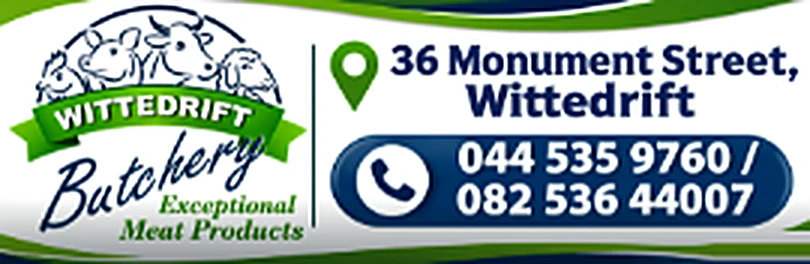
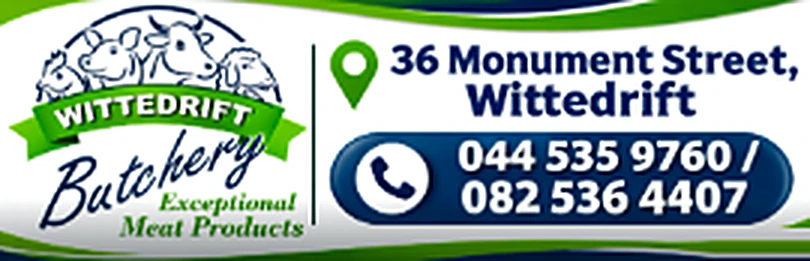
Dr G Coci adverts, corrected Wittedrift number, and a page-width fix
- Dr G Coci, Specialist Physician: his poster joins the front-page
  carousel, and his banner shows for Plettenberg Bay in both the Business
  and Medical directories (banners now say which directories they belong
  in). He has no website, so the buttons are Call 044 533 4471, Email
  drcociad@gmail.com and Directions via the map link he sent.
- Wittedrift Butchery sent a corrected banner: the cell number is
  082 536 4407. The new banner replaces the old one, and the number is now
  a Call button next to the landline.
- The front-page carousel let phones pan the whole home page sideways:
  mobile Chrome sized the page to the slides waiting off-screen (656px on
  a 375px phone). Clipping the carousel card keeps the page 375px wide.

Release 1.0.20 (versionCode 29).

diff --git a/sea-express/lib/garden-route/sponsored.ts b/sea-express/lib/garden-route/sponsored.ts
@@ -16,7 +16,8 @@ export type AdAction =
   | { kind: 'call'; phone: string; label?: string }
   | { kind: 'facebook'; url: string; label?: string }
   | { kind: 'email'; address: string; label?: string }
-  | { kind: 'directions'; query: string; label?: string };
+  /** A map search for `query`, or `url` when the advertiser shared their own map link. */
+  | { kind: 'directions'; query: string; url?: string; label?: string };
 
 export interface FrontPageAd {
   id: string;
@@ -29,10 +30,14 @@ export interface FrontPageAd {
   actions: AdAction[];
 }
 
+export type Directory = 'businesses' | 'medical';
+
 export interface TownBanner {
   id: string;
   name: string;
   towns: string[];
+  /** The directories it appears in, for its towns. */
+  directories: Directory[];
   image: string;
   width: number;
   height: number;
@@ -51,6 +56,18 @@ export interface SponsoredListing {
 }
 
 const MOSSI_PHONE = '073 169 0523';
+
+// Dr G Coci has no website; these are the contacts on his poster, and the
+// map link he sent for his rooms.
+const COCI_ACTIONS: AdAction[] = [
+  { kind: 'call', phone: '044 533 4471' },
+  { kind: 'email', address: 'drcociad@gmail.com', label: 'Email' },
+  {
+    kind: 'directions',
+    query: '2a Medway Centre, Muller Street, Plettenberg Bay',
+    url: 'https://share.google/thubrDTS5J2XTfzo7',
+  },
+];
 
 export const FRONT_PAGE_ADS: FrontPageAd[] = [
   {
@@ -77,6 +94,15 @@ export const FRONT_PAGE_ADS: FrontPageAd[] = [
       { kind: 'email', address: 'plettnews@seaexpress.co.za', label: 'Send a story' },
     ],
   },
+  {
+    id: 'dr-coci',
+    name: 'Dr G Coci, Specialist Physician',
+    image: '/ads/coci-poster.webp',
+    width: 810,
+    height: 810,
+    alt: 'Dr G Coci, Specialist Physician: comprehensive care of heart, lungs, liver, gut, kidney, thyroid and blood diseases; annual physicals, preventive care and medical imaging; diabetes, hypertension and lipid disorders. 2a Medway Centre, Muller Street, Plettenberg Bay. +27 44 533 4471. drcociad@gmail.com.',
+    actions: COCI_ACTIONS,
+  },
 ];
 
 export const TOWN_BANNERS: TownBanner[] = [
@@ -84,6 +110,7 @@ export const TOWN_BANNERS: TownBanner[] = [
     id: 'mossinet',
     name: 'MossiNet',
     towns: ['plett', 'knysna'],
+    directories: ['businesses'],
     image: '/ads/mossinet-banner.webp',
     width: 810,
     height: 261,
@@ -95,15 +122,29 @@ export const TOWN_BANNERS: TownBanner[] = [
     id: 'wittedrift-butchery',
     name: 'Wittedrift Organic Butchery',
     towns: ['wittedrift'],
+    directories: ['businesses'],
     image: '/ads/wittedrift-banner.webp',
     width: 810,
-    height: 264,
-    alt: 'Wittedrift Butchery, exceptional meat products. 36 Monument Street, Wittedrift. 044 535 9760.',
+    height: 261,
+    alt: 'Wittedrift Butchery, exceptional meat products. 36 Monument Street, Wittedrift. 044 535 9760 or 082 536 4407.',
     actions: [
       { kind: 'facebook', url: 'https://www.facebook.com/share/1CFnZrAaqW/' },
       { kind: 'call', phone: '044 535 9760' },
+      { kind: 'call', phone: '082 536 4407' },
       { kind: 'directions', query: '36 Monument Street, Wittedrift' },
     ],
+  },
+  {
+    id: 'dr-coci',
+    name: 'Dr G Coci, Specialist Physician',
+    towns: ['plett'],
+    // A doctor belongs in the Medical directory too.
+    directories: ['businesses', 'medical'],
+    image: '/ads/coci-banner.webp',
+    width: 810,
+    height: 270,
+    alt: 'Dr G Coci, Specialist Physician. 2a Medway Centre, Muller Street, Plettenberg Bay. +27 44 533 4471. drcociad@gmail.com.',
+    actions: COCI_ACTIONS,
   },
 ];
 
@@ -134,17 +175,19 @@ export const SPONSORED_LISTINGS: SponsoredListing[] = [
     actions: [
       { kind: 'facebook', url: 'https://www.facebook.com/share/1CFnZrAaqW/' },
       { kind: 'call', phone: '044 535 9760' },
+      { kind: 'call', phone: '082 536 4407' },
       { kind: 'directions', query: '36 Monument Street, Wittedrift' },
     ],
   },
 ];
 
-export function bannersForTown(town: string): TownBanner[] {
-  return TOWN_BANNERS.filter((b) => b.towns.includes(town));
+export function bannersForTown(town: string, directory: Directory = 'businesses'): TownBanner[] {
+  return TOWN_BANNERS.filter((b) => b.towns.includes(town) && b.directories.includes(directory));
 }
 
-export function listingsForTown(town: string): SponsoredListing[] {
-  return SPONSORED_LISTINGS.filter((l) => l.town === town);
+/** Featured listings are for the Business Directory only. */
+export function listingsForTown(town: string, directory: Directory = 'businesses'): SponsoredListing[] {
+  return directory === 'businesses' ? SPONSORED_LISTINGS.filter((l) => l.town === town) : [];
 }
 
 /** A South African number as digits with the country code, e.g. "27731690523". */
@@ -166,7 +209,7 @@ export function actionHref(action: AdAction): string {
     case 'email':
       return `mailto:${action.address}`;
     case 'directions':
-      return `https://www.google.com/maps/search/?api=1&query=${encodeURIComponent(action.query)}`;
+      return action.url ?? `https://www.google.com/maps/search/?api=1&query=${encodeURIComponent(action.query)}`;
   }
 }
 

diff --git a/sea-express/tests/unit/sponsored.test.ts b/sea-express/tests/unit/sponsored.test.ts
@@ -44,6 +44,30 @@ describe("what the advertisers asked for", () => {
     expect(listing.actions).toContainEqual({ kind: 'facebook', url: 'https://www.facebook.com/share/1CFnZrAaqW/' });
   });
 
+  it('uses the corrected Wittedrift cell number, 082 536 4407', () => {
+    const phones = [...TOWN_BANNERS, ...SPONSORED_LISTINGS]
+      .filter((p) => p.id === 'wittedrift-butchery')
+      .flatMap((p) => p.actions.flatMap((a) => (a.kind === 'call' ? [a.phone] : [])));
+    expect(phones).toContain('082 536 4407');
+    expect(phones.every((n) => n.replace(/\s/g, '').length === 10)).toBe(true);
+  });
+
+  it("shows Dr Coci's banner in Plettenberg Bay in both the Business and Medical directories", () => {
+    expect(bannersForTown('plett', 'businesses').map((b) => b.id)).toContain('dr-coci');
+    expect(bannersForTown('plett', 'medical').map((b) => b.id)).toEqual(['dr-coci']);
+    expect(bannersForTown('knysna', 'medical')).toEqual([]);
+    expect(listingsForTown('plett', 'medical')).toEqual([]);
+  });
+
+  it("gives Dr Coci call, email and his own map link, and no website", () => {
+    const coci = TOWN_BANNERS.find((b) => b.id === 'dr-coci')!;
+    expect(coci.actions.map((a) => actionHref(a))).toEqual([
+      'tel:+27445334471',
+      'mailto:drcociad@gmail.com',
+      'https://share.google/thubrDTS5J2XTfzo7',
+    ]);
+  });
+
   it('lists Sea Express under Plettenberg Bay with its link and emails, and no phone numbers', () => {
     const sea = listingsForTown('plett').find((l) => l.id === 'sea-express')!;
     const kinds = sea.actions.map((a) => a.kind);
@@ -56,8 +80,8 @@ describe("what the advertisers asked for", () => {
     expect(poster.actions.map((a) => a.kind)).not.toContain('call');
   });
 
-  it('puts MossiScreen and Sea Express on the front page', () => {
-    expect(FRONT_PAGE_ADS.map((a) => a.id)).toEqual(['mossiscreen', 'sea-express']);
+  it('puts MossiScreen, Sea Express and Dr Coci on the front page', () => {
+    expect(FRONT_PAGE_ADS.map((a) => a.id)).toEqual(['mossiscreen', 'sea-express', 'dr-coci']);
   });
 });
 

diff --git a/sea-express/components/SponsoredPlacements.tsx b/sea-express/components/SponsoredPlacements.tsx
@@ -1,17 +1,18 @@
 import { BadgeCheck } from 'lucide-react';
 import { getTownLabel } from '@/lib/garden-route/towns';
-import { bannersForTown, listingsForTown } from '@/lib/garden-route/sponsored';
+import { bannersForTown, listingsForTown, type Directory } from '@/lib/garden-route/sponsored';
 import { appHref } from '@/lib/app-nav';
 import AdActions from '@/components/AdActions';
 
 /**
- * Paid placements for the selected town in the Business Directory: the
+ * Paid placements for the selected town in a directory (Businesses by
+ * default, or Medical): the
  * town's banners, then its featured listings, above the normal results.
  * Renders nothing for towns without any.
  */
-export default function SponsoredPlacements({ town }: { town: string }) {
-  const banners = bannersForTown(town);
-  const listings = listingsForTown(town);
+export default function SponsoredPlacements({ town, directory = 'businesses' }: { town: string; directory?: Directory }) {
+  const banners = bannersForTown(town, directory);
+  const listings = listingsForTown(town, directory);
   if (banners.length === 0 && listings.length === 0) return null;
 
   return (

diff --git a/sea-express/app/medical/page.tsx b/sea-express/app/medical/page.tsx
@@ -27,6 +27,7 @@ import {
 import { TOWNS, getTownLabel } from '@/lib/garden-route/towns';
 import DirectoryPhoto from '@/components/DirectoryPhoto';
 import BrandMark from '@/components/BrandMark';
+import SponsoredPlacements from '@/components/SponsoredPlacements';
 import {
   ACTIVE_CATEGORIES,
   countByCategory,
@@ -285,6 +286,8 @@ export default function MedicalPage() {
           </button>
         )}
       </div>
+
+      <SponsoredPlacements town={town} directory="medical" />
 
       {facilities.length === 0 ? (
         <div className="mt-4 rounded-2xl bg-card/80 border border-white/60 dark:border-white/10 p-8 text-center shadow">

diff --git a/sea-express/components/FeaturedAdverts.tsx b/sea-express/components/FeaturedAdverts.tsx
@@ -47,7 +47,9 @@ export default function FeaturedAdverts() {
   };
 
   return (
-    <div className="rounded-3xl bg-card/85 p-4 shadow-[0_10px_30px_-18px_rgba(15,23,42,0.35)] backdrop-blur sm:p-5">
+    // overflow-hidden: mobile browsers otherwise size the page to the
+    // slides waiting off to the side, letting the whole page pan sideways.
+    <div className="overflow-hidden rounded-3xl bg-card/85 p-4 shadow-[0_10px_30px_-18px_rgba(15,23,42,0.35)] backdrop-blur sm:p-5">
       <div
         ref={rowRef}
         onPointerDown={() => setPaused(true)}
